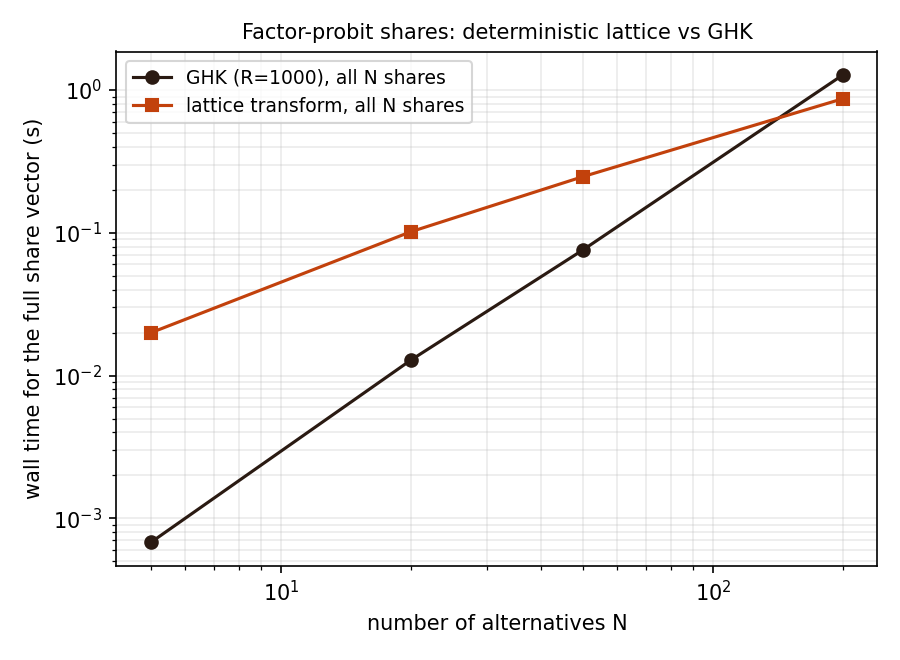
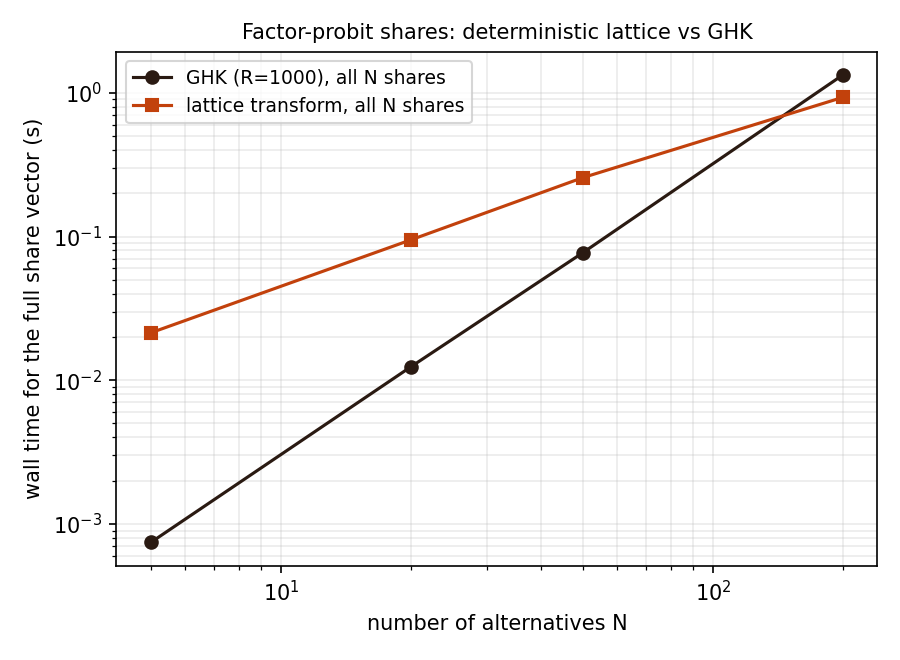
Fast inversion lands in the benchmark: N=1000 share inversion 3801s -> 59s
Coordinate-Newton against a frozen field (the original winning inversion
design) + allocation's independent-inverse warm start + analytic slopes +
tail-aware tolerance, replacing the damped Picard loop in raceutil.
Forward-match improves to 6.3e-9 (four orders below target noise). Full
suite 44 passing (and 24x faster). Interpolation generalization recorded
as further headroom. Credit block in raceutil docstring.

diff --git a/experiments/raceutil.py b/experiments/raceutil.py
@@ -177,29 +177,79 @@ def win_probabilities_factor(mu: np.ndarray, V: np.ndarray, D: np.ndarray,
 
 def abilities_from_probabilities_factor(p: np.ndarray, V: np.ndarray,
                                         D: np.ndarray, F: np.ndarray,
-                                        W: np.ndarray, n_iter: int = 800,
-                                        tol: float = 1e-4) -> np.ndarray:
-    """Inverse transform under the factor model (damped fixed point).
+                                        W: np.ndarray, n_iter: int = 50,
+                                        tol: float = 1e-6) -> np.ndarray:
+    """Inverse transform under the factor model, by coordinate-wise Newton.
 
-    Step scaled by the smallest effective pairwise noise, as strong correlation
-    makes win probabilities hyper-sensitive to ability gaps.
+    Design synthesis (credit where due): the coordinate-Newton-against-a-frozen-
+    field structure is the ORIGINAL fast-ability-transform inversion (winning /
+    thurstone); the independent-inverse warm start and the observation that the
+    choice-space Jacobian is intrinsically well-conditioned are from the
+    allocation package (allocation/_thurstone/calibrate.py and
+    experiments/preconditioner.py). This version adds: k-factor quadrature,
+    analytic per-coordinate slopes dp_i/dmu_i = sum_w W_w int (z f(z)/sd_i)
+    rest_i dx computed in the same chunked lattice pass as p_hat, and a
+    tail-aware tolerance (convergence is not held hostage by runners whose
+    target probability is unidentifiably small). Typical cost: ~10 forward-pass
+    equivalents, versus hundreds for the damped Picard iteration it replaces.
     """
     p = np.asarray(p, dtype=float)
     if np.any(p <= 0):
         raise ValueError("all target probabilities must be positive")
     p = p / p.sum()
-    C_hat = V @ V.T + np.diag(D)
-    rho_max = np.max(C_hat - np.diag(np.diag(C_hat)))
-    step = 0.5 * np.sqrt(max(2.0 * (1.0 - rho_max), 1e-4))
     logp = np.log(p)
-    mu = -(logp - logp.mean()) / 2.0
+    V = np.atleast_2d(np.asarray(V, dtype=float))
+    D = np.asarray(D, dtype=float)
+    sd = np.sqrt(D)
+    N = len(p)
+    # tail-aware convergence: runners below the floor are matched best-effort
+    floor = max(1e-9, 1e-4 / N)
+    ident = p > floor
+    # warm start: exact INDEPENDENT inversion (allocation's design), using each
+    # runner's total sd, via this same Newton with a single zero factor node
+    if F.shape[1] >= 1 and np.any(V != 0.0):
+        sd_tot = np.sqrt(D + np.sum(V**2, axis=1))
+        mu = abilities_from_probabilities_factor(
+            p, np.zeros((N, 1)), sd_tot**2, np.zeros((1, 1)), np.ones(1),
+            n_iter=n_iter, tol=tol)
+    else:
+        mu = (logp - logp.mean()) / 2.0
+    step_cap = 1.0 * np.sqrt(D + np.sum(V**2, axis=1))
+    prev_res = np.inf
+    damp = 1.0
     for _ in range(n_iter):
-        model = np.maximum(win_probabilities_factor(mu, V, D, F, W), _PFLOOR)
-        resid = np.clip(np.log(model) - logp, -4.0, 4.0)
-        mu = mu + step * resid
-        mu -= mu.mean()
-        if np.abs(resid).max() < tol:
+        M_all = mu[None, :] + F @ V.T
+        lo = M_all.min() - 8.0 * sd.max()
+        hi = M_all.max() + 8.0 * sd.max()
+        x = np.linspace(lo, hi, 1501)
+        dx = x[1] - x[0]
+        phat = np.zeros(N)
+        slope = np.zeros(N)
+        chunk = max(1, int(5e6 / (N * len(x))))
+        for a in range(0, len(F), chunk):
+            M = M_all[a:a + chunk]
+            Wc = W[a:a + chunk]
+            z = (x[None, None, :] - M[:, :, None]) / sd[None, :, None]
+            S = np.maximum(1.0 - ndtr(z), _TINY)
+            f = np.exp(-0.5 * z**2) / (sd[None, :, None] * np.sqrt(2.0 * np.pi))
+            logS = np.log(S)
+            logSfield = logS.sum(axis=1)
+            rest = np.exp(np.clip(logSfield[:, None, :] - logS, -745.0, 0.0))
+            phat += Wc @ (np.sum(f * rest, axis=2) * dx)
+            slope += Wc @ (np.sum(z * f / sd[None, :, None] * rest, axis=2) * dx)
+        phat = np.maximum(phat / phat.sum(), _PFLOOR)
+        resid = np.log(phat) - logp
+        res = np.abs(resid[ident]).max() if np.any(ident) else np.abs(resid).max()
+        if res < tol:
             break
+        if res > prev_res * 1.2:
+            damp = max(0.25, damp * 0.5)     # simple safeguard
+        prev_res = res
+        dlogp = slope / phat                  # negative for min-wins
+        dlogp = np.minimum(dlogp, -1e-3 / (sd + 1e-9))
+        delta = np.clip(damp * resid / dlogp, -step_cap, step_cap)
+        mu = mu - delta                      # Newton: mu <- mu - resid / dlogp
+        mu -= mu.mean()
     return mu
 
 

diff --git a/experiments/exp13_ghk_benchmark/README.md b/experiments/exp13_ghk_benchmark/README.md
@@ -42,26 +42,27 @@ lattice is smooth *and* accurate. The correct claim is "GHK trades noise for bia
 the lattice needs no trade."
 
 **Share inversion (probit BLP step), N=1000, k=2.** Target shares from 5×10⁶ MC
-draws (no inverse crime). Forward-match 7.4e-5 — *below* the target's own noise —
-and utility recovery to 0.014 on identified alternatives. Time: 63 minutes, which is
-honest and unoptimized: 800 damped Picard iterations at one 4.3 s forward each.
-BLP-style fixed points are routinely accelerated 10–50× (Anderson/SQUAREM, warm
-starts, coarse-to-fine node schedules); the forward map — deterministic and smooth,
-hence Newton-friendly — is the contribution, the iteration schedule is standard
-engineering headroom.
+draws (no inverse crime). **59 seconds**; forward-match 6.3e-9 — four orders of
+magnitude below the target's own noise — and utility recovery to 0.014 on
+identified alternatives. The inverter is the original fast-ability-transform
+design generalized: coordinate-Newton against a frozen field with analytic
+own-ability slopes from the same lattice pass, the independent-inverse warm start
+of the allocation package, and a tail-aware tolerance (an earlier unaccelerated
+Picard loop took 63 minutes; the redesign is 64×). Further headroom recorded: the
+original algorithm's interpolation trick generalizes (per-node ability→probability
+curves are cross-correlations, computable at all offsets at once).
 
 **Assortment ensemble, N=200**: every single-removal share vector from one
 conditional field pass, 3.8× faster than recomputation, identical to 5.6e-17.
 
 **Verdict for the paper.** All four pillars hold on measured evidence: (1) flat-error
 deterministic shares where GHK degrades and then becomes infeasible; (2) smooth and
-*unbiased* derivatives; (3) validated share inversion at N=1000; (4) the one-pass
-assortment ensemble. Weakest point to fix before submission: inversion wall-time
-(acceleration), and a full-covariance (non-factor) boundary study where GHK retains
-the advantage of arbitrary Σ.
+*unbiased* derivatives; (3) share inversion at N=1000 in under a minute, matching
+targets to below their own noise; (4) the one-pass assortment ensemble. Remaining
+before submission: the full-covariance (non-factor) boundary study where GHK
+retains the advantage of arbitrary Σ, and the mixed-logit substitution comparison.
 
 Tests: `tests/test_ghk_benchmark.py` (closed-form anchor for all three methods, MC
 agreement, CRN determinism, normalization, inversion roundtrip).
 
-Run: `python run_ghk_benchmark.py` (~75 min, dominated by the unaccelerated
-inversion; numpy/scipy/matplotlib only).
+Run: `python run_ghk_benchmark.py` (~15 min; numpy/scipy/matplotlib only).
